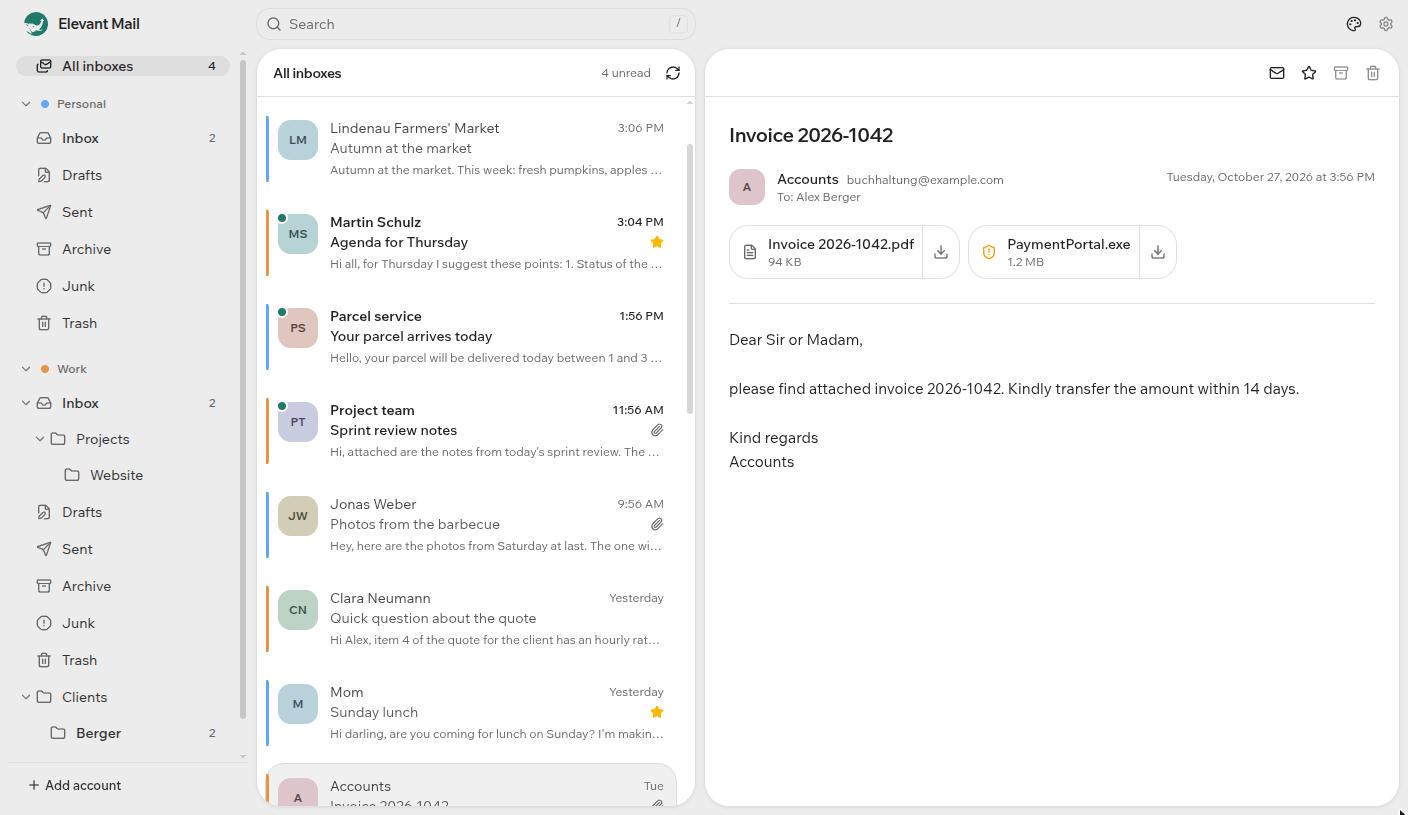
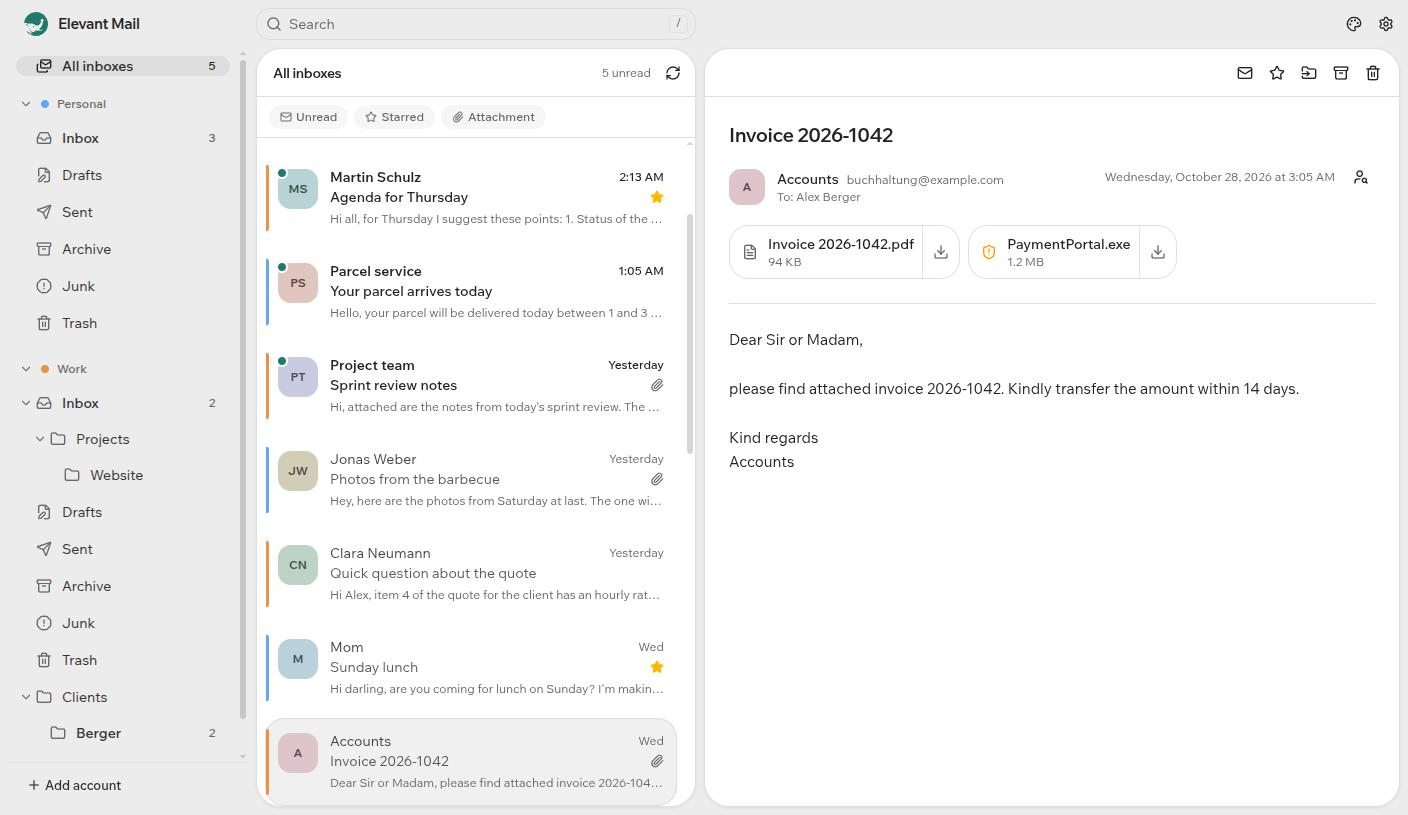
Update the README and screenshots for 0.3
The README describes what came in 0.3: new mail right away, conversations,
archiving and moving with undo, the filter bar, search on the server, how
much stays offline, images per sender and the unified inbox's accounts. A
new section explains the search filters; the shortcut table is complete.
The screenshots show conversations and the filter bar. The English filter
says "Starred" like the rest of the interface.

diff --git a/src/locales/en.ts b/src/locales/en.ts
@@ -214,7 +214,7 @@ export const en: Record<MessageKey, string> = {
   "search.results": "Results: {count}",
   "search.empty": "No mail found",
   "search.emptyHint":
-    "Searches the mail on this device. Narrow it down with from:name, is:unread, is:flagged or has:attachment.",
+    "Searches the mail on this device. Narrow it down with from:name, is:unread, is:starred or has:attachment.",
   "search.clear": "Clear search",
   "search.fromKey": "from",
   "search.server": "Search on the server too",
@@ -224,7 +224,7 @@ export const en: Record<MessageKey, string> = {
   "search.server.nothing": "Searched the servers: nothing found",
   "filter.label": "Filters",
   "filter.unread": "Unread",
-  "filter.flagged": "Flagged",
+  "filter.flagged": "Starred",
   "filter.attachment": "Attachment",
   "filter.empty": "No messages match the filters",
   "filter.clear": "Clear filters",

diff --git a/README.md b/README.md
@@ -11,22 +11,35 @@ unified inbox and a calm interface.
 - **Local first.** Your mail is cached on your computer, opens instantly and stays readable
   offline.
 
-![Elevant Mail with two accounts in the unified inbox](docs/screenshots/main.jpg)
+![Elevant Mail with a conversation in the unified inbox of two accounts](docs/screenshots/main.jpg)
 
-> **Status: v0.2, reading only.** Elevant Mail reads, searches and organizes mail from several
-> accounts. Writing and sending mail comes in a later version (see [Roadmap](#roadmap)). It is
-> early software: please keep another mail client around for now, and
+> **Status: v0.3, reading only.** Elevant Mail reads, searches and organizes mail from several
+> accounts: conversations, filters, archiving and moving with undo, new mail right away. Writing
+> and sending mail comes next (see [Roadmap](#roadmap)). It is early software: please keep another
+> mail client around for now, and
 > [tell us](https://github.com/Elevant-Development/elevant-mail/issues) what breaks.
 
 ## Features
 
-- **Several accounts** with a unified inbox, a color per account and a collapsible folder tree
+- **Several accounts** with a unified inbox (you choose which accounts it brings together), a
+  color per account and a collapsible folder tree
 - **Works with** self-hosted mail servers, Gmail, Microsoft 365, Outlook.com, web.de, GMX and any
   other IMAP provider. Server settings are suggested from your address.
 - **Sign in with Microsoft** for Microsoft 365 and Outlook.com, no password stored
-- **Fast search** across all accounts and folders, right on your computer
-- **Safe HTML mail:** scripts never run, external images stay blocked until you allow them, links
-  open in your browser and the app warns when a link leads somewhere other than it shows
+- **New mail right away** (IMAP IDLE) with a desktop notification, with or without sender and
+  subject
+- **Conversations:** replies sit with the mail they answer, your own replies from Sent included.
+  Prefer single messages? Switch it off in the appearance.
+- **Archive, delete and move** one mail or many at once, with ten seconds to undo
+- **Fast search** across all accounts and folders, right on your computer, with filters like
+  `from:lena` or `is:unread` (see [Searching](#searching)). On request it also searches your mail
+  servers, for older mail.
+- **Filter bar** for unread, starred and mail with attachments
+- **You choose how much stays offline:** per account the last month, three months, a year or
+  everything. Folders with tens of thousands of mails still scroll smoothly.
+- **Safe HTML mail:** scripts never run, external images stay blocked until you allow them for
+  one mail or always for a sender, links open in your browser and the app warns when a link leads
+  somewhere other than it shows
 - **Attachments:** open or save them. Files that could run programs are only saved, never opened
   directly.
 - **Read and starred** state syncs back to the server
@@ -104,20 +117,52 @@ comes with a concrete next step.
 The interface language follows your system. To change it, open **Appearance** (the palette icon
 at the top right) and pick a language; the same menu has mode, colors, density and font.
 
+**Settings** (the gear icon at the top right) has the rest: per account its name, color, server
+settings, password and how far back mail stays on your computer; notifications; and under
+**Reading** which accounts the unified inbox brings together, which inbox opens at start, when an
+opened mail counts as read and whose images always load.
+
+## Searching
+
+Type into the search field at the top; every word has to match, as a word or the start of one
+("invoi" finds "invoice"). Filters narrow it down and work on their own, too:
+
+| Filter                            | Finds                                  |
+| --------------------------------- | -------------------------------------- |
+| `from:lena` or `from:example.org` | Mail from a sender, by name or address |
+| `is:unread`, `is:read`            | Unread or read mail                    |
+| `is:starred`                      | Starred mail                           |
+| `has:attachment`                  | Mail with attachments                  |
+
+The German forms work as well: `von:`, `ist:ungelesen`, `ist:gelesen`, `ist:markiert`,
+`hat:anhang`. The search runs on the mail on your computer. Below the results, **Search on the
+server too** asks your mail servers as well and adds what they find, for mail older than what
+the app keeps offline.
+
 ## Keyboard shortcuts
 
-| Key        | Action                                                          |
-| ---------- | --------------------------------------------------------------- |
-| `j` or `↓` | Next message                                                    |
-| `k` or `↑` | Previous message                                                |
-| `Enter`    | Open the first message, or move into the open message           |
-| `Esc`      | Go back one level: message → list → no selection                |
-| `u`        | Mark as read or unread                                          |
-| `s`        | Star or unstar                                                  |
-| `/`        | Search. `Enter` or `↓` jumps to the first result, `Esc` clears. |
+| Key                  | Action                                                                |
+| -------------------- | --------------------------------------------------------------------- |
+| `j` or `↓`           | Next message                                                          |
+| `k` or `↑`           | Previous message                                                      |
+| `Home`, `End`        | First or last message in the list                                     |
+| `Shift` + `j` or `k` | Add the next or previous message to the selection                     |
+| `Ctrl+A`             | Select the list                                                       |
+| `Enter`              | Open the first message, or move into the open message                 |
+| `Esc`                | Go back one level: message → list → no selection                      |
+| `u`                  | Mark as read or unread                                                |
+| `s`                  | Star or unstar                                                        |
+| `e`                  | Archive                                                               |
+| `#` or `Del`         | Delete                                                                |
+| `v`                  | Move to a folder (type to find it)                                    |
+| `z`                  | Undo the last archiving, deleting or moving                           |
+| `/`                  | Search. `Enter` or `↓` jumps to the first result, `Esc` clears.       |
+| `F6`                 | Jump between search, folders, list and message (`Shift+F6` goes back) |
 
-Inside an open message the arrow keys scroll. Shortcuts pause while you type in a field or a
-dialog is open.
+`Ctrl`-click adds a message to the selection, `Shift`-click selects a range. `Tab` reaches each
+part of the window once; in the folder tree the arrow keys move, `→` opens a folder and `←`
+closes it. Inside an open message the arrow keys scroll. Shortcuts pause while you type in a field
+or a dialog is open.
 
 ## Privacy and security
 
@@ -129,8 +174,9 @@ dialog is open.
 - **Passwords and sign-in tokens** live in your system keyring, never in files or logs.
 - **Encrypted connections only,** with certificates checked against your system's trust store.
 - **Mail is untrusted.** HTML is cleaned before display and shown in a sandbox where scripts
-  never run. External images are blocked, so senders cannot see when you open a mail. Links open
-  in your browser, with a warning when the shown address differs from the real one.
+  never run. External images are blocked, so senders cannot see when you open a mail, until you
+  load them for one mail or always for a sender. Links open in your browser, with a warning when
+  the shown address differs from the real one.
 - **Your data on disk:** the mail cache is a SQLite database in `~/.local/share/dev.elevant.mail/`
   on Linux and `%APPDATA%\dev.elevant.mail\` on Windows. Removing an account in the app deletes
   its mail from that cache and its password from the keyring; the mail on the server stays.
@@ -143,18 +189,17 @@ Found a security problem? Please report it privately, see [SECURITY.md](SECURITY
 
 - v0.1: reading with one account, safe HTML, attachments, search, keyboard control
 - v0.2: several accounts, unified inbox, folder tree, sign in with Microsoft, English and German
+- v0.3: archive, delete and move with undo; new mail right away and notifications; conversations;
+  filters and search on the server; account and reading settings; large folders
 
-**Next: comfort**
+**Next: sending**
 
-- Archive, delete and move, with undo
-- New mail right away (IMAP IDLE) and desktop notifications
-- Conversation view (threads)
-- Filters (unread, starred, with attachment) and server search beyond the local cache
-- Account settings: rename, color, change password, sign in again
+- New mail, reply, reply all, forward
+- Drafts, signatures, attachments
+- SMTP with password or sign-in via Microsoft
 
 **Then**
 
-- **Sending:** new mail, reply, forward, drafts, signatures, attachments
 - **MCP server for AI agents:** optional and off by default, local only, read-only to start, so
   tools like Claude Code can search your mail without their own access to your accounts
 - **Optional AI help:** summaries and reply drafts with a provider you choose, including local
@@ -174,7 +219,7 @@ mailbox (Microsoft 365 admin center → Users → Mail → Manage email apps).
 **Gmail says my password is wrong.** Gmail does not accept your normal password in mail apps. Use
 an app password (see [Getting started](#getting-started)).
 
-**Can I send mail?** Not yet. Sending is the next big step after the comfort features.
+**Can I send mail?** Not yet. Sending is the next step.
 
 **Does it support POP3 or Exchange ActiveSync?** No, IMAP only. Microsoft 365 and Outlook.com work
 over IMAP with sign-in via Microsoft.

diff --git a/CONTRIBUTING.md b/CONTRIBUTING.md
@@ -6,7 +6,7 @@ Thanks for helping. Bug reports, translations, ideas and code are all welcome.
 
 Open an [issue](https://github.com/Elevant-Development/elevant-mail/issues). For a bug, include:
 
-- the Elevant Mail version and your system (for example "0.2.0, Ubuntu 24.04, .deb")
+- the Elevant Mail version and your system (for example "0.3.0, Ubuntu 24.04, .deb")
 - the kind of account (Gmail, Microsoft 365, web.de, self-hosted …)
 - what you did, what you expected and what happened instead
 
